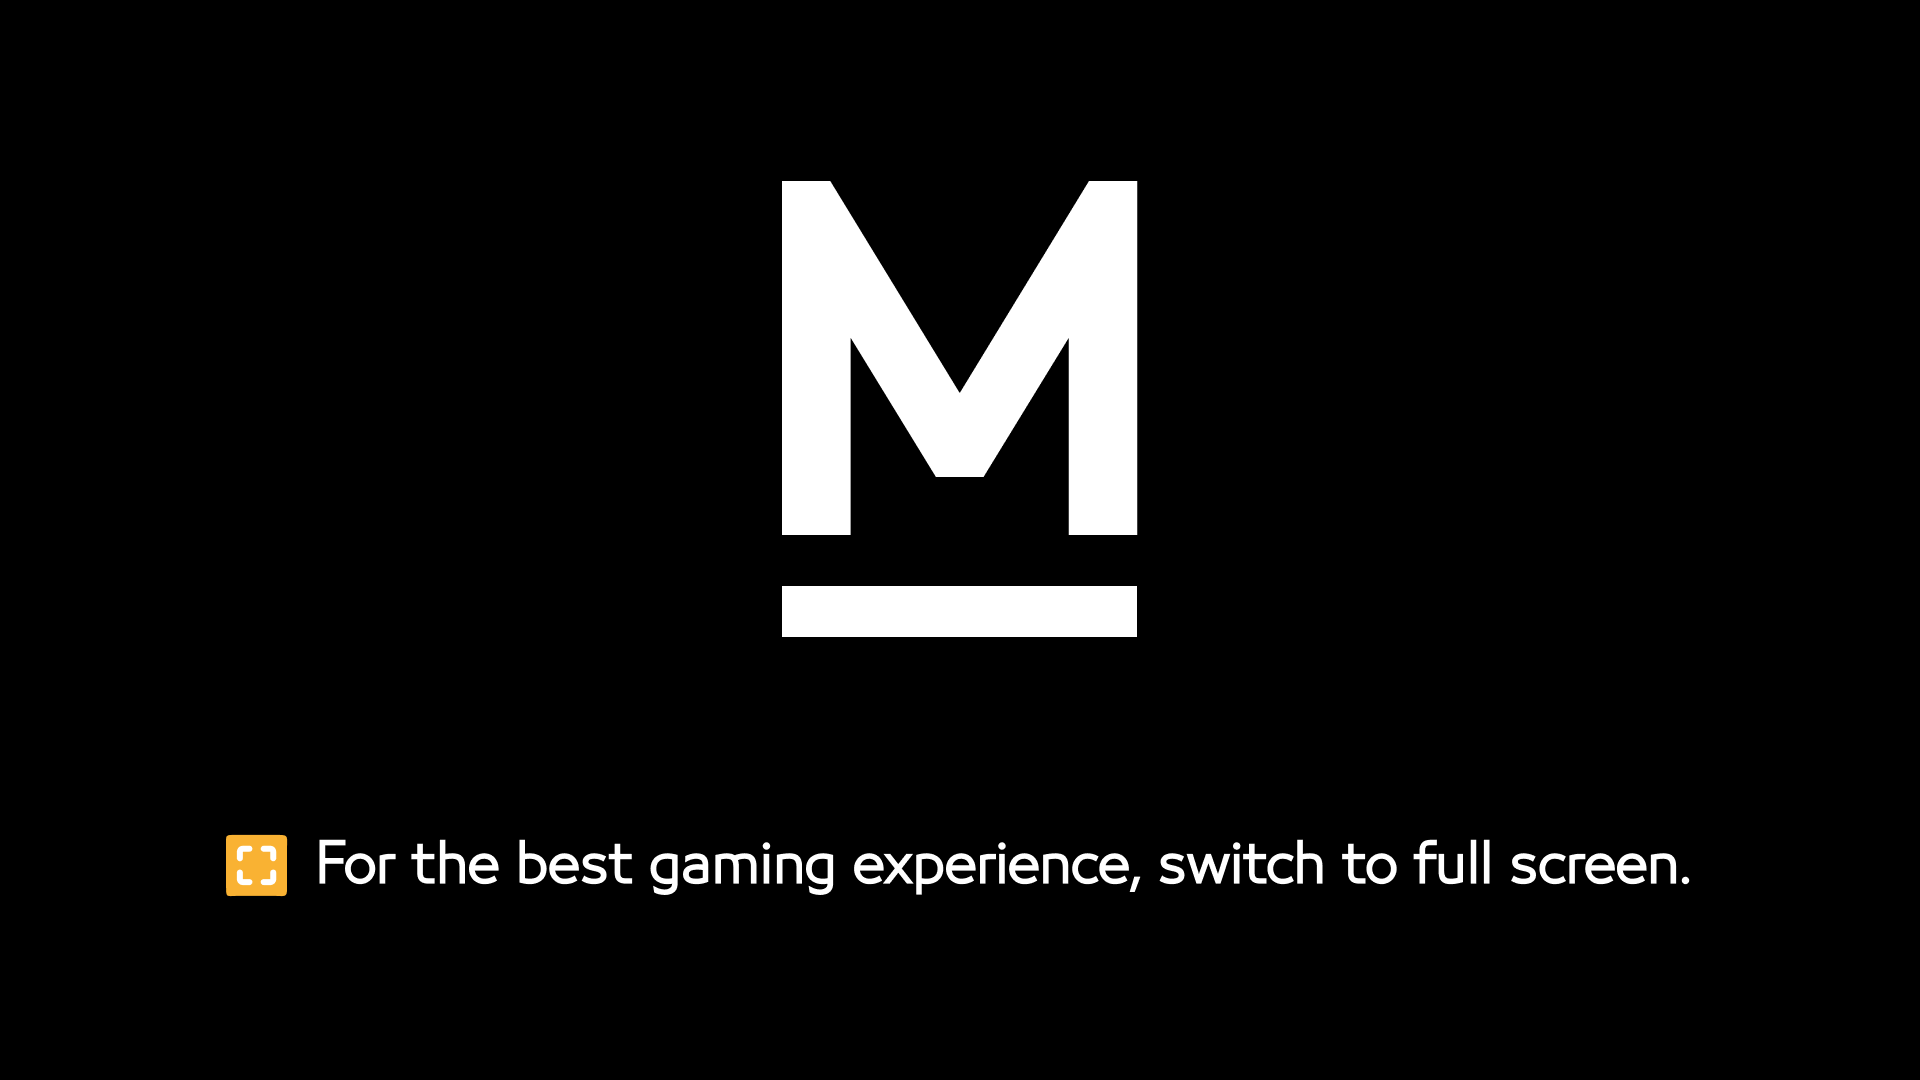
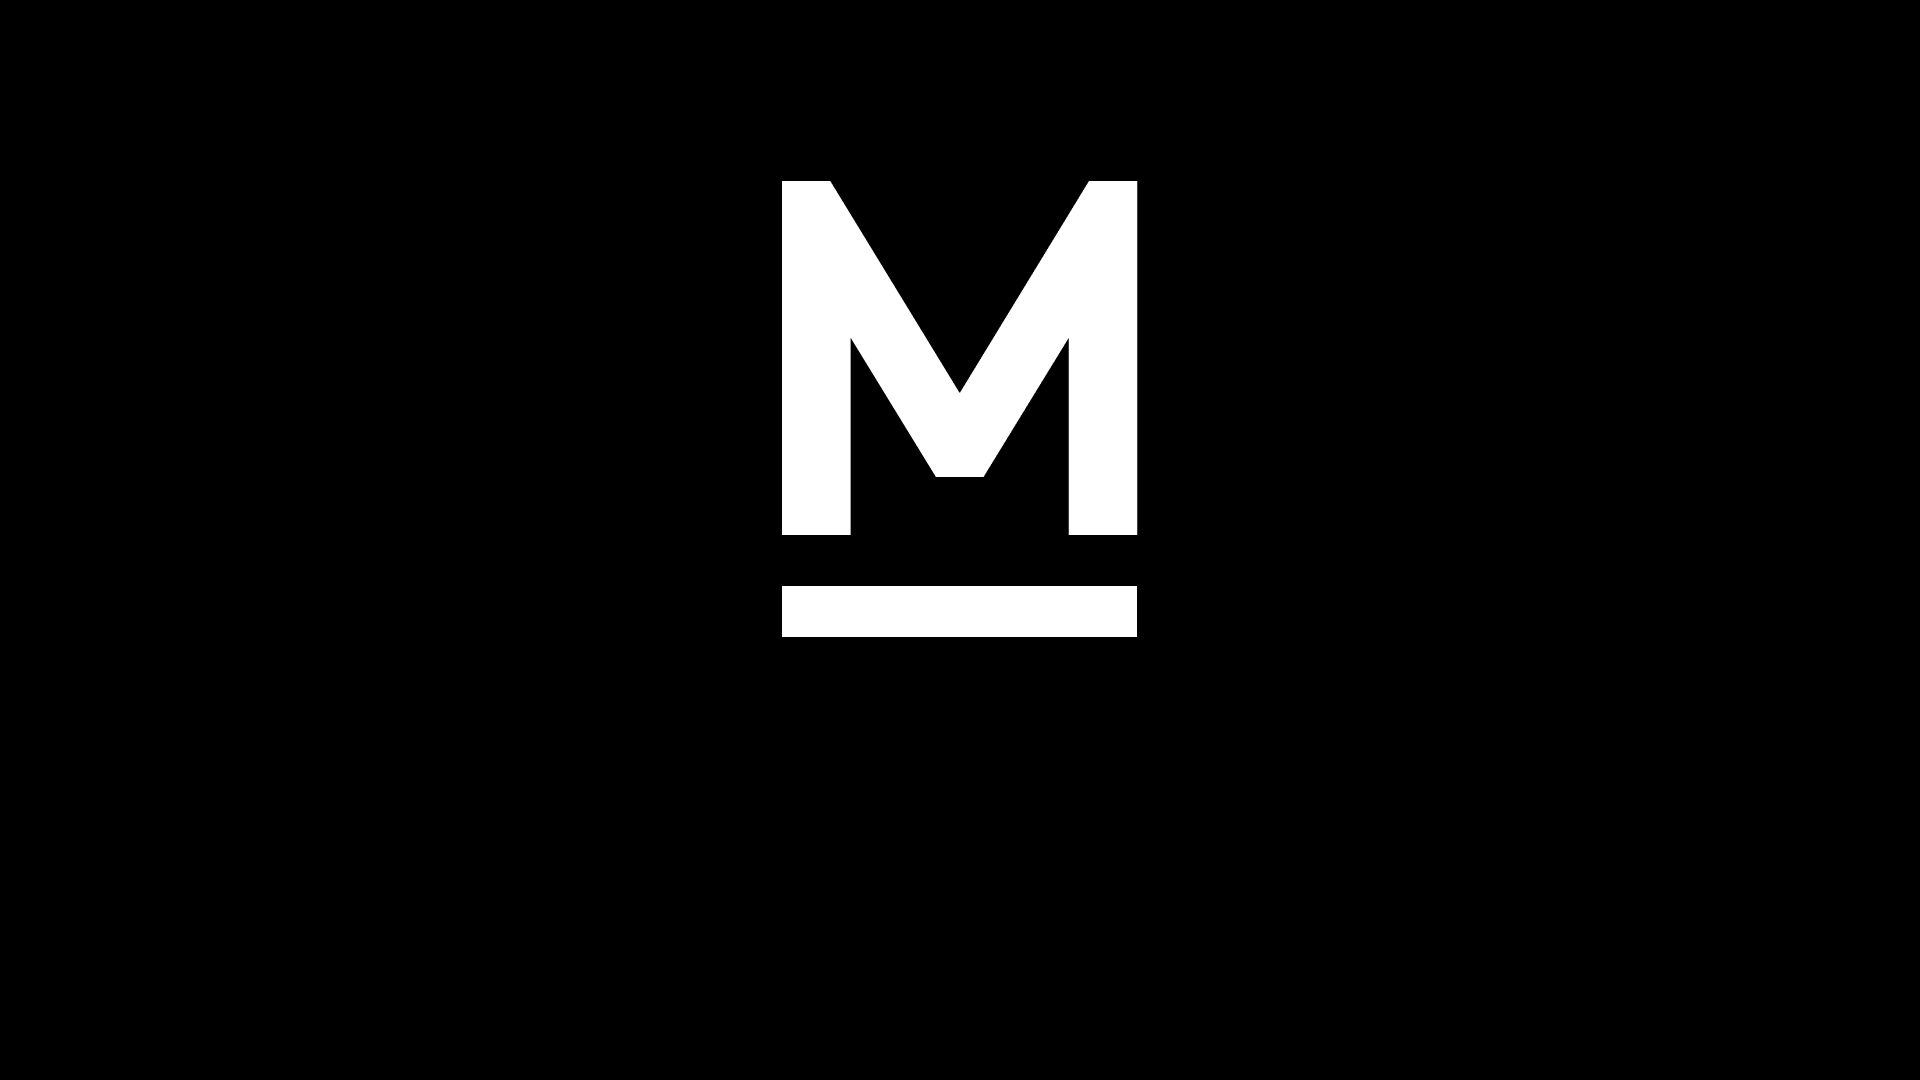
.

Changed region(s): [[0.0938, 0.7639, 0.875, 0.8556]]

diff --git a/testrunner/index.html b/testrunner/index.html
@@ -12,6 +12,7 @@
       height: 100%;
       overflow: hidden;
       font-family: Arial, sans-serif;
+      background-color: black;
     }
 
     #unity-container {
@@ -78,80 +79,53 @@
     }
 
     #RotateWarning {
-      display: none;
       position: absolute;
       top: 0;
       left: 0;
       width: 100%;
       height: 100%;
       z-index: 10000;
-      background: url("TemplateData/fullscreen.png") no-repeat center center;
-      background-size: cover;
+      background-color: black;
       display: flex;
+      flex-direction: column;
       justify-content: center;
       align-items: center;
-      flex-direction: column;
       text-align: center;
       color: white;
-      font-size: 18px;
-      backdrop-filter: brightness(0.6);
     }
 
-    #RotateWarning button {
-      margin-top: 100px;
-      padding: 12px 24px;
-      background-color: #FFA500;
-      border: none;
-      color: black;
-      font-weight: bold;
-      font-size: 16px;
-      border-radius: 6px;
-      cursor: pointer;
-    }
-
-  #fullscreen-icon {
-  width: 64px;
-  height: 64px;
-  cursor: pointer;
-  margin-top: 160px; /* عدّلها لو تحب */
-  transition: transform 0.2s ease;
-}
-
-#fullscreen-icon:hover {
-  transform: scale(1.1);
-}
- #RotateWarning button:hover {
-      background-color: #ffcc66;
+    #RotateWarning img.logo {
+      width: 160px;
+      margin-bottom: 40px;
     }
 
     #fullscreen-prompt {
-  position: absolute;
-  bottom: 60px;
-  display: flex;
-  align-items: center;
-  gap: 12px;
-  justify-content: center;
-  width: 100%;
-  color: white;
-  font-size: 18px;
-  font-family: Arial, sans-serif;
-}
+      position: absolute;
+      bottom: 40px;
+      display: flex;
+      align-items: center;
+      gap: 16px;
+      justify-content: center;
+      width: 100%;
+      font-size: 18px;
+    }
 
-#fullscreen-prompt img {
-  width: 50px;
-  height: 50px;
-  cursor: pointer;
-  transition: transform 0.2s ease;
-}
+    #fullscreen-prompt img {
+      width: 48px;
+      height: 48px;
+      cursor: pointer;
+      transition: transform 0.2s ease;
+    }
 
-#fullscreen-prompt img:hover {
-  transform: scale(1.1);
-}
+    #fullscreen-prompt img:hover {
+      transform: scale(1.1);
+    }
   </style>
 </head>
 
 <body>
-  <!-- ✅ Splash Screen -->
+
+  <!-- ✅ Splash Loading Screen -->
   <div id="LoadingSplash">
     <div id="loading-text">Loading...</div>
     <div id="custom-loading-bar">
@@ -159,19 +133,21 @@
     </div>
   </div>
 
-  <!-- ✅ Fullscreen Prompt in Landscape -->
-<div id="fullscreen-prompt">
-<img src="TemplateData/Ficon.png" id="fullscreen-icon" alt="Fullscreen" onclick="goFullscreen()">
-  <span>For the best gaming experience, switch to full screen.</span>
-
+  <!-- ✅ Fullscreen Overlay Prompt -->
+  <div id="RotateWarning">
+    <img src="TemplateData/lg.png" alt="Logo" class="logo">
+    <div id="fullscreen-prompt">
+      <img src="TemplateData/Ficon.png" alt="Enter Fullscreen" onclick="goFullscreen()">
+      <span>For the best gaming experience, switch to full screen.</span>
+    </div>
   </div>
 
-  <!-- ✅ Unity Canvas -->
+  <!-- ✅ Unity Game Canvas -->
   <div id="unity-container" class="unity-desktop">
     <canvas id="unity-canvas"></canvas>
   </div>
 
-  <!-- ✅ Unity Loader -->
+  <!-- ✅ Unity Loader Script -->
   <script>
     var buildUrl = "Build";
     var loaderUrl = buildUrl + "/Build.loader.js";
@@ -190,20 +166,6 @@
     const barFill = document.querySelector("#custom-loading-bar-fill");
     const rotateWarning = document.querySelector("#RotateWarning");
 
-    // ✅ Show only if in landscape
-    function checkOrientation() {
-      if (window.innerWidth > window.innerHeight) {
-        rotateWarning.style.display = "flex";
-      } else {
-        rotateWarning.style.display = "none";
-      }
-    }
-
-    window.addEventListener("resize", checkOrientation);
-    window.addEventListener("orientationchange", checkOrientation);
-    checkOrientation();
-
-    // ✅ Handle Fullscreen and hide background immediately
     function goFullscreen() {
       const elem = document.documentElement;
       if (elem.requestFullscreen) {
@@ -216,11 +178,11 @@
         elem.msRequestFullscreen();
       }
 
-      // ✅ Hide the background overlay immediately
+      // ✅ Hide the overlay immediately
       rotateWarning.style.display = "none";
     }
 
-    // ✅ Load Unity
+    // ✅ Unity loading script
     const script = document.createElement("script");
     script.src = loaderUrl;
     script.onload = () => {
